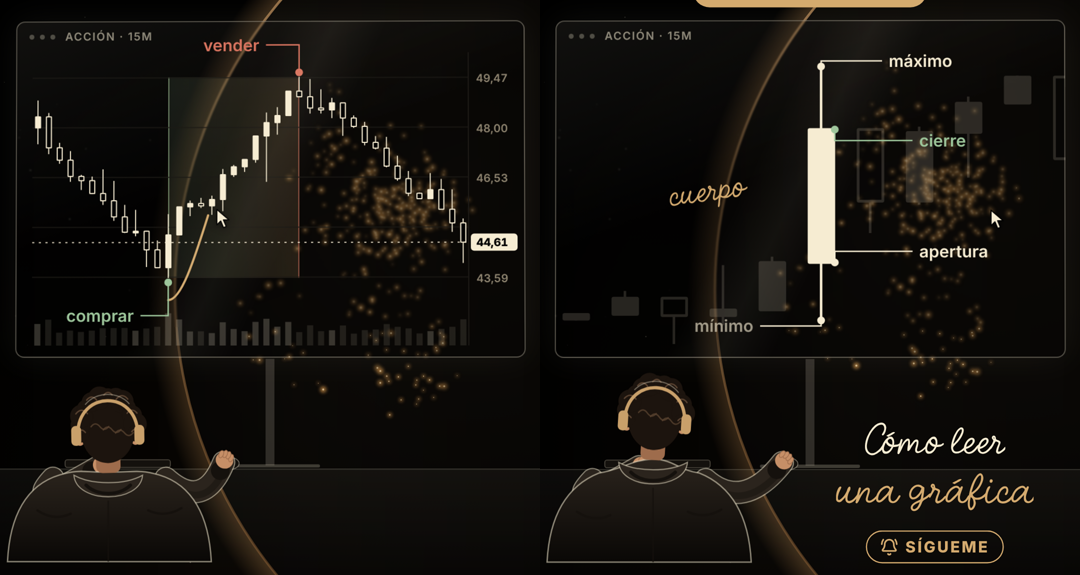
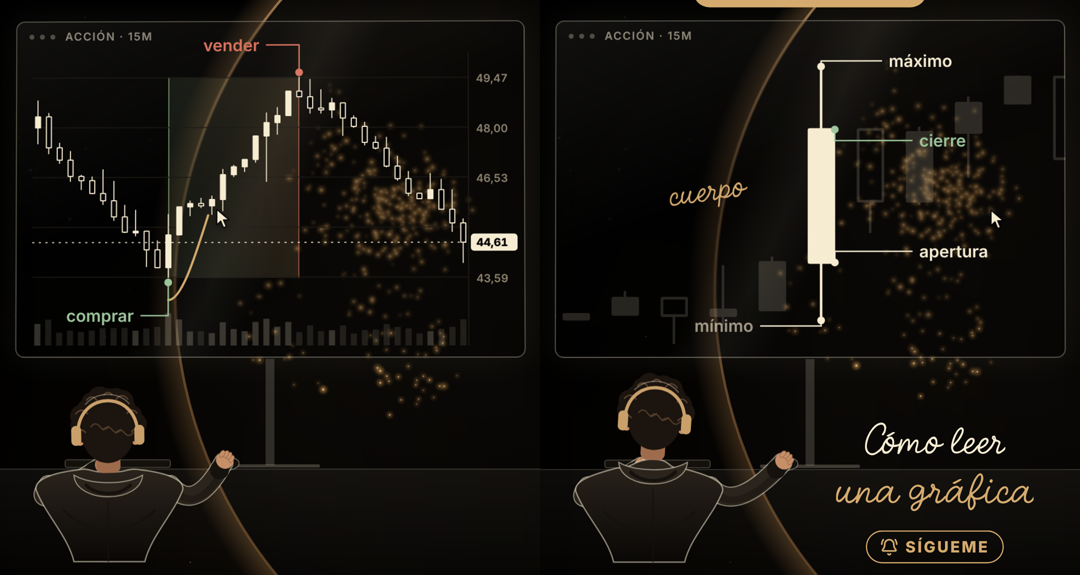
Reel acción: personaje más delgado con espalda en V
Claude-Session: https://claude.ai/code/session_01Usms2r7kyNP6cbVRcrKfdD

diff --git a/reels/que-es-una-accion/proyecto/src/propias/Escritorio.tsx b/reels/que-es-una-accion/proyecto/src/propias/Escritorio.tsx
@@ -66,8 +66,8 @@ const Brazo: React.FC<{ hombro: [number, number]; mano: [number, number]; codo: 
     py = mano[1] - Math.sin(ang) * 16;
   return (
     <g>
-      <path d={d} fill="none" stroke={LUZ} strokeWidth={42} strokeLinecap="round" />
-      <path d={d} fill="none" stroke={TELA} strokeWidth={38} strokeLinecap="round" />
+      <path d={d} fill="none" stroke={LUZ} strokeWidth={36} strokeLinecap="round" />
+      <path d={d} fill="none" stroke={TELA} strokeWidth={32} strokeLinecap="round" />
       <path d={d} fill="none" stroke={TELA_SOMBRA} strokeWidth={12} strokeLinecap="round" opacity={0.5} transform="translate(4,6)" />
       <circle cx={px} cy={py} r={17} fill={TELA_SOMBRA} />
       <g transform={`translate(${mano[0]},${mano[1]}) rotate(${(ang * 180) / Math.PI - 90})`}>
@@ -86,8 +86,8 @@ const Personaje: React.FC<{ mira: number; inclina: number; asiente: number; rato
   const cx = 250 + mira * 10,
     cy = 1000 - inclina * 18 + asiente * 6;
   const [mx, my] = raton;
-  const hI: [number, number] = [148, 1092 + r],
-    hD: [number, number] = [352, 1092 + r];
+  const hI: [number, number] = [140, 1104 + r],
+    hD: [number, number] = [360, 1104 + r];
   // rizos del pelo alrededor de la cabeza (se mecen un poco)
   const rizos = Array.from({ length: 13 }).map((_, k) => {
     const a = Math.PI * (0.95 + (k / 12) * 1.1);
@@ -106,11 +106,11 @@ const Personaje: React.FC<{ mira: number; inclina: number; asiente: number; rato
       <rect x={170} y={MESA_Y - 16} width={190} height={14} rx={4} fill="#14110D" stroke={alfa(CREMA, 0.3)} strokeWidth={1.5} />
       <ellipse cx={mx} cy={my} rx={22} ry={12} fill="#14110D" stroke={alfa(CREMA, 0.45)} strokeWidth={1.5} />
       {/* brazos (detrás del cuerpo) */}
-      <Brazo hombro={hI} codo={[92, 1150]} mano={[232, MESA_Y - 4]} />
-      <Brazo hombro={hD} codo={[420, 1150]} mano={[mx - 6, my - 2]} />
+      <Brazo hombro={hI} codo={[100, 1156]} mano={[236, MESA_Y - 4]} />
+      <Brazo hombro={hD} codo={[404, 1156]} mano={[mx - 6, my - 2]} />
       {/* espalda con capucha */}
       <path
-        d={`M66 1240 C70 ${1160 + r} 100 ${1104 + r} 160 ${1086 + r - inclina * 6} C200 ${1074 + r} ${cx - 40} ${cy + 74} ${cx} ${cy + 72} C${cx + 40} ${cy + 74} 300 ${1074 + r} 340 ${1086 + r - inclina * 6} C400 ${1104 + r} 430 ${1160 + r} 434 1240 Z`}
+        d={`M186 1240 C176 1196 134 ${1156 + r} 118 ${1114 + r} C112 ${1094 + r} 150 ${1082 + r} 192 ${1077 + r - inclina * 6} C220 ${1072 + r} ${cx - 36} ${cy + 74} ${cx} ${cy + 72} C${cx + 36} ${cy + 74} 280 ${1072 + r} 308 ${1077 + r - inclina * 6} C350 ${1082 + r} 388 ${1094 + r} 382 ${1114 + r} C366 ${1156 + r} 324 1196 314 1240 Z`}
         fill="url(#pj-tela)"
         stroke={LUZ}
         strokeWidth={2.5}
@@ -119,7 +119,7 @@ const Personaje: React.FC<{ mira: number; inclina: number; asiente: number; rato
       <path d={`M${cx - 62} ${cy + 78} C${cx - 58} ${cy + 130} ${cx + 58} ${cy + 130} ${cx + 62} ${cy + 78} C${cx + 30} ${cy + 96} ${cx - 30} ${cy + 96} ${cx - 62} ${cy + 78} Z`} fill={TELA} stroke={LUZ} strokeWidth={2} />
       <path d={`M${cx - 40} ${cy + 96} C${cx - 20} ${cy + 116} ${cx + 20} ${cy + 116} ${cx + 40} ${cy + 96}`} fill="none" stroke={TELA_SOMBRA} strokeWidth={6} strokeLinecap="round" />
       <path d={`M${cx} ${cy + 124} L${cx} 1240`} stroke={TELA_SOMBRA} strokeWidth={3} opacity={0.7} />
-      <path d={`M120 ${1150 + r} q30 20 60 6 M320 ${1150 + r} q30 14 60 -4`} fill="none" stroke={TELA_SOMBRA} strokeWidth={4} strokeLinecap="round" />
+      <path d={`M168 ${1150 + r} q26 26 54 30 M332 ${1150 + r} q-26 26 -54 30`} fill="none" stroke={TELA_SOMBRA} strokeWidth={4} strokeLinecap="round" />
       {/* cuello, orejas y cabeza */}
       <g transform={`rotate(${mira * 5} ${cx} ${cy + 50})`}>
         <rect x={cx - 22} y={cy + 30} width={44} height={44} rx={12} fill={PIEL_SOMBRA} />
